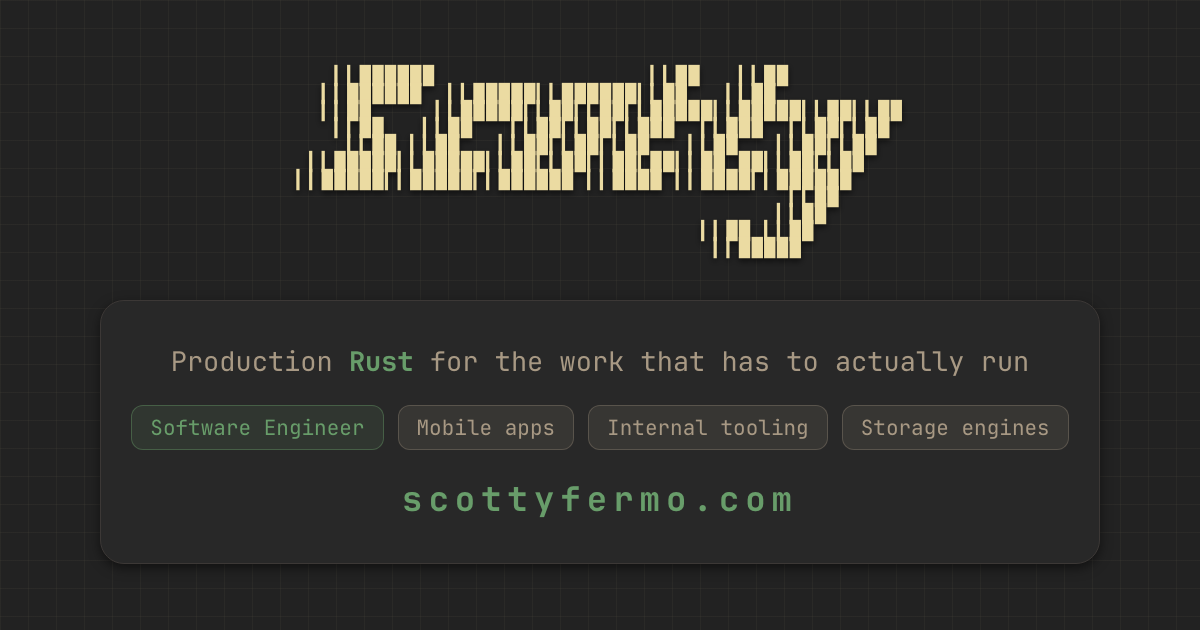
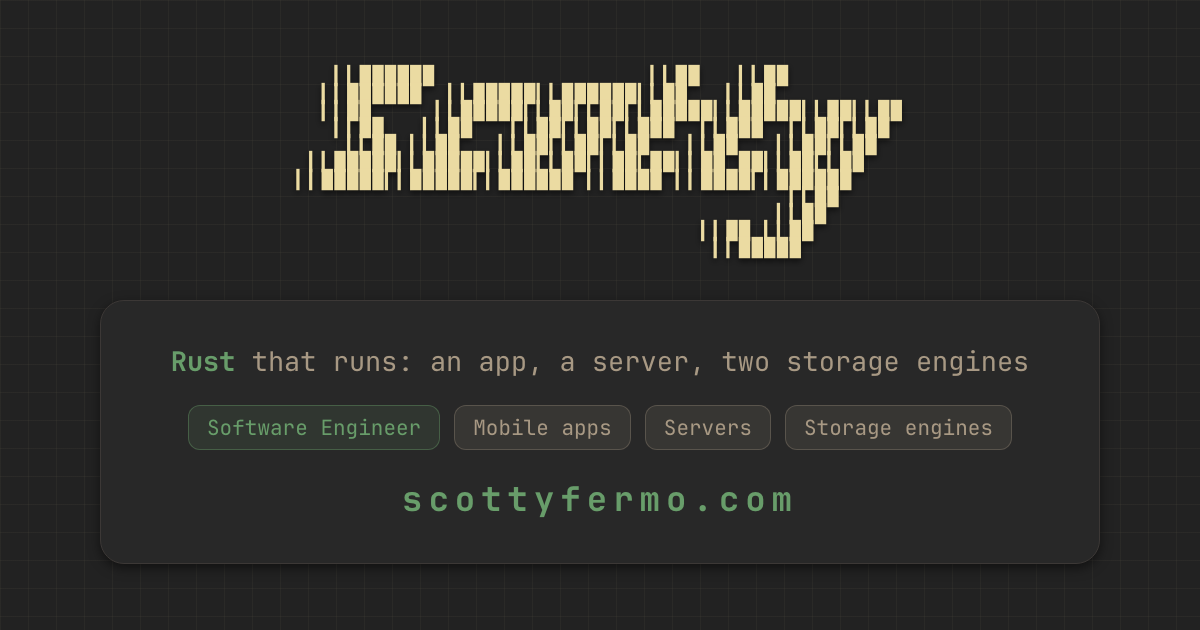
Carry the new tagline into the OG card and meta description

Changed region(s): [[0.1233, 0.5429, 0.8633, 0.6032], [0.1233, 0.6635, 0.8942, 0.6937]]

diff --git a/context/marketing/og_default.html b/context/marketing/og_default.html
@@ -140,11 +140,11 @@ body {
                                  ▎▎▉▉▉▉▉</pre>
 
   <div class="hero">
-    <div class="tagline">Production <span class="hl">Rust</span> for the work that has to actually run</div>
+    <div class="tagline"><span class="hl">Rust</span> that runs: an app, a server, two storage engines</div>
     <div class="tags">
       <span class="tag tag-value">Software Engineer</span>
       <span class="tag tag-plat">Mobile apps</span>
-      <span class="tag tag-plat">Internal tooling</span>
+      <span class="tag tag-plat">Servers</span>
       <span class="tag tag-plat">Storage engines</span>
     </div>
     <div class="site">scottyfermo.com</div>

diff --git a/src/pages/home.rs b/src/pages/home.rs
@@ -36,7 +36,7 @@ pub fn Home() -> Element {
         // description stays under the ~125-char social-preview cutoff.
         PageMeta {
             title: "Software Engineer: Rust, Full-Stack & Systems",
-            description: "Personal portfolio of Scotty Fermo: production Rust systems, full-stack engineering, storage engines, and ML side quests.",
+            description: "Scotty Fermo, software engineer. Rust that runs: a mobile app on both stores, a live server, two storage engines.",
             path: "/",
         }
         document::Script { r#type: "application/ld+json", "{JSON_LD}" }
